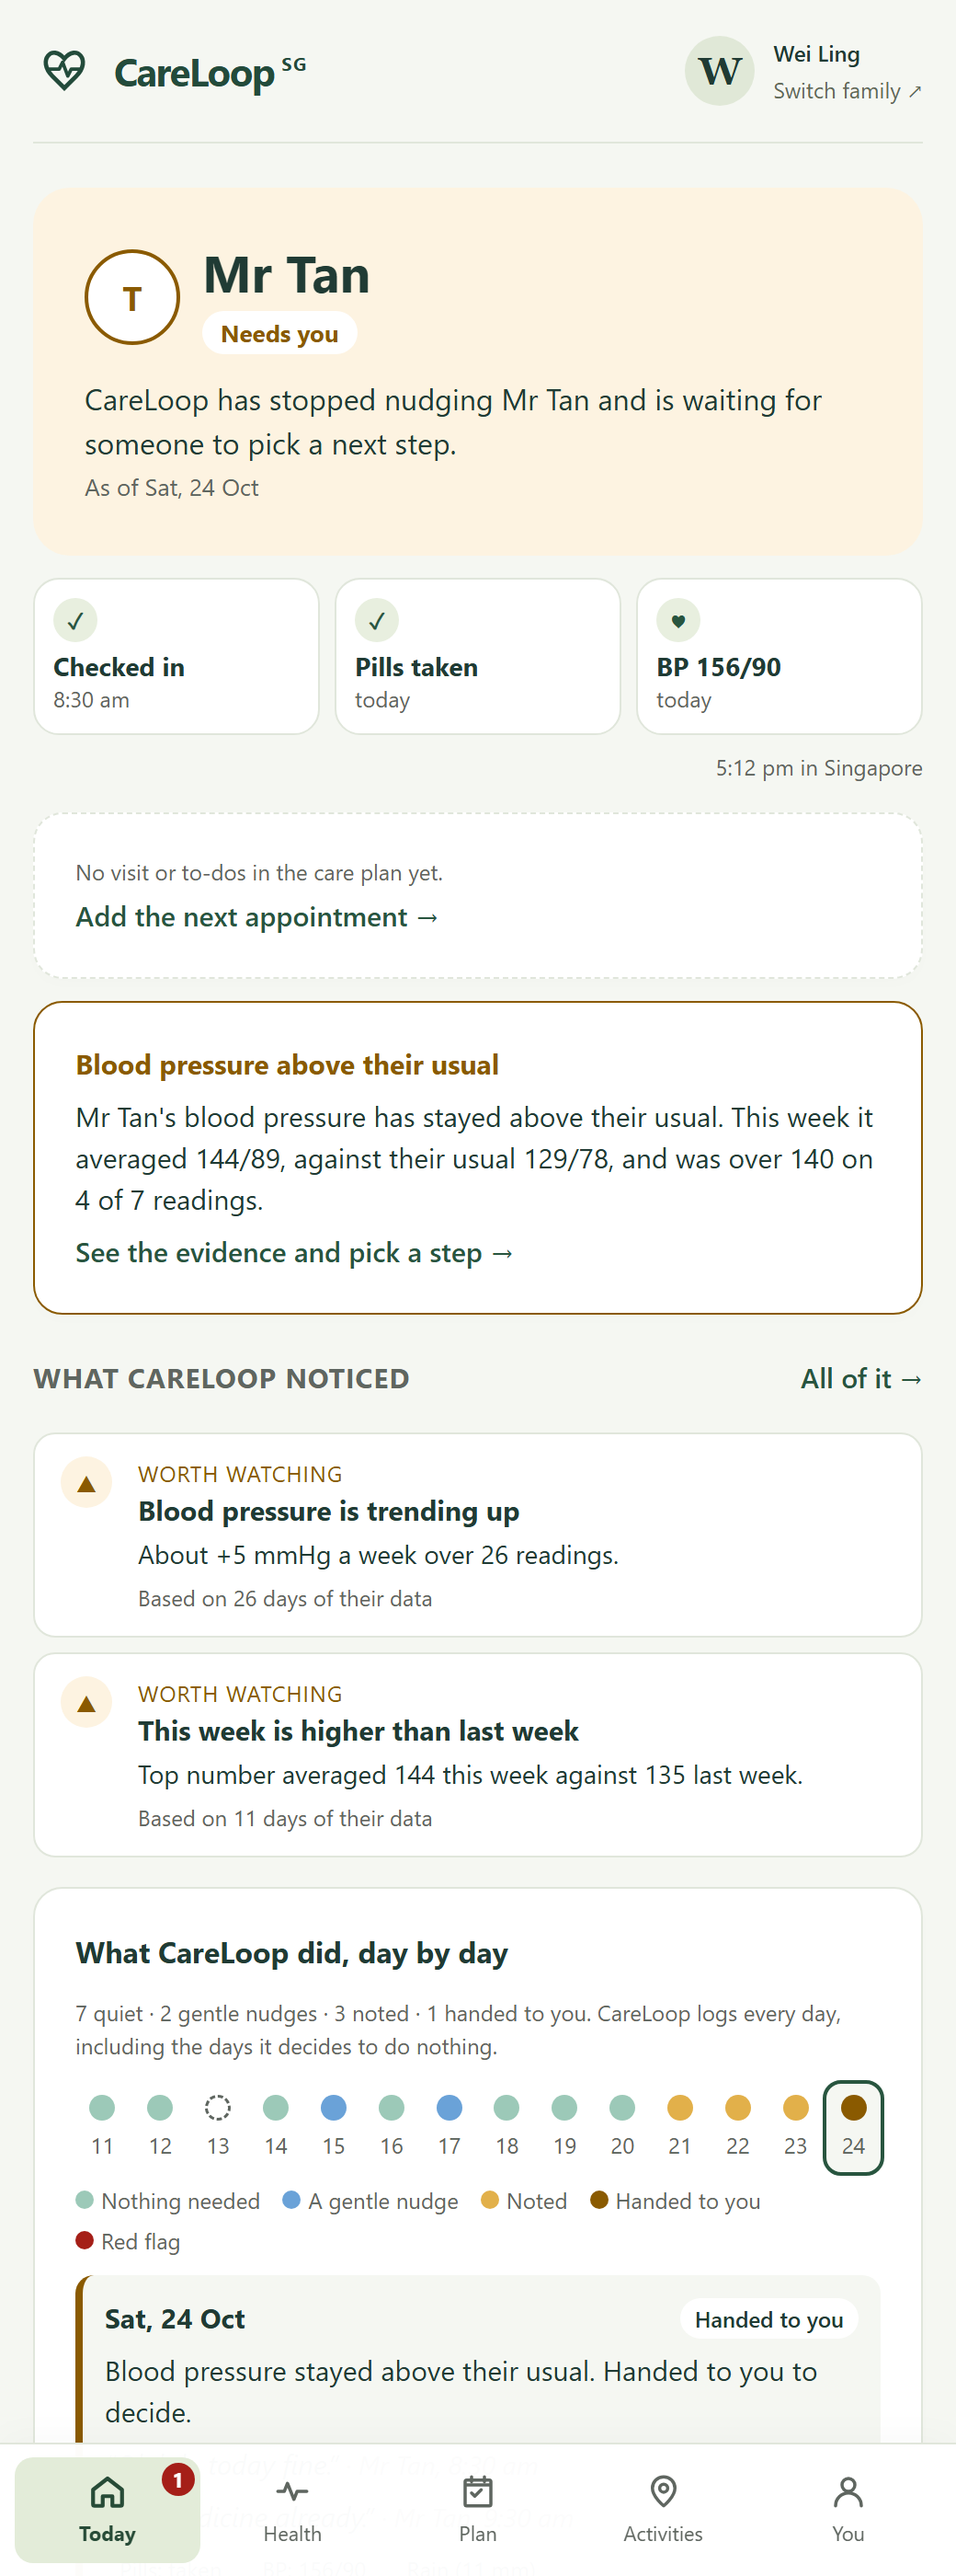
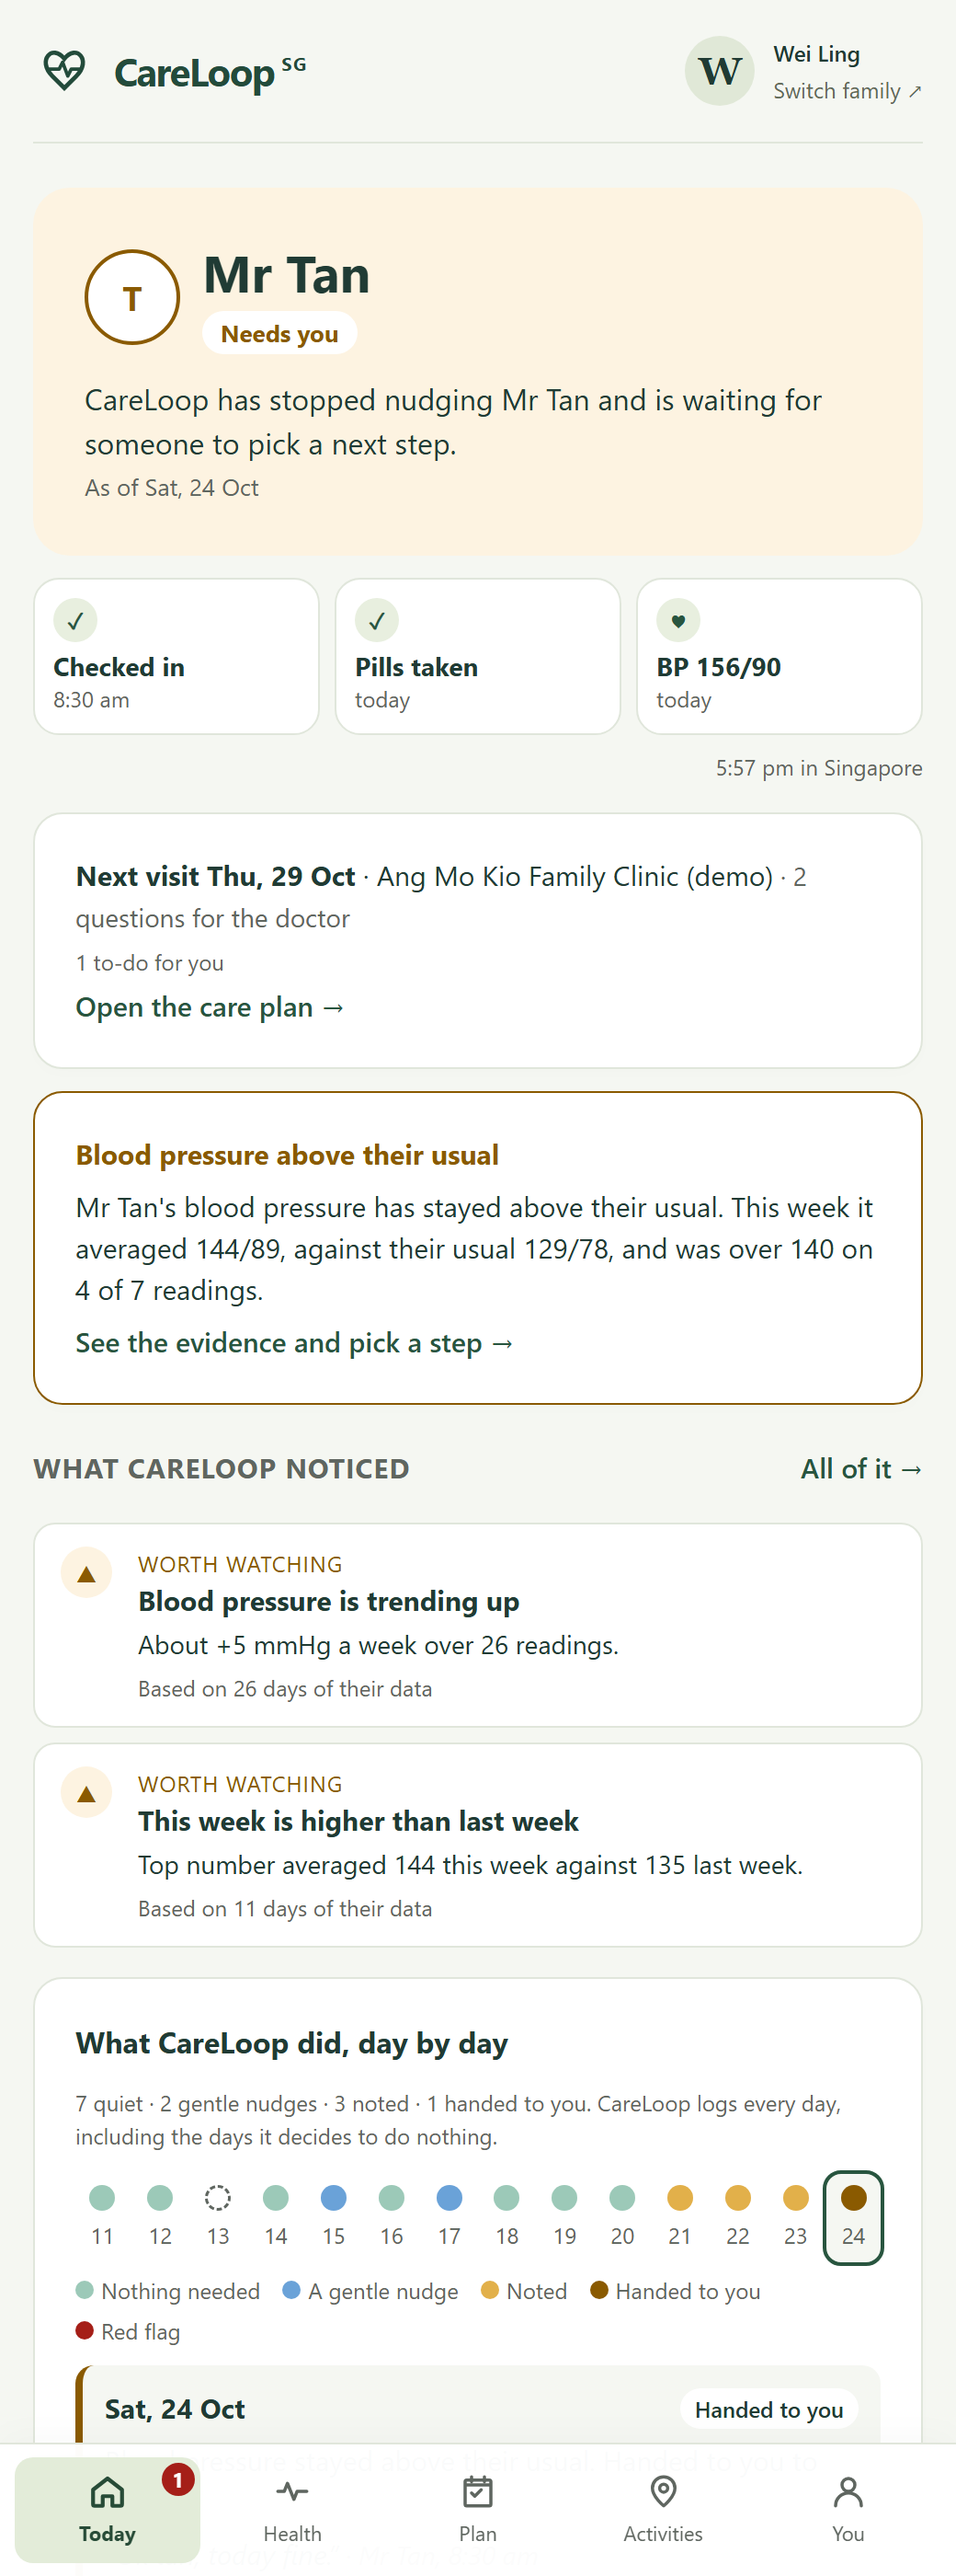
Steps keep the day's largest total, not the sum; demo care plan and timetable
A watch syncing through Apple Health or Health Connect sends the day's running
total several times, so adding them counted the day again. The demo now seeds
Mr Tan's care plan and the centre's timetable, so Plan and Programmes aren't
empty. README gets the Plan and Programmes screenshots and a note on watch data.

diff --git a/backend/api/demo.py b/backend/api/demo.py
@@ -14,6 +14,7 @@ from datetime import date, datetime, timedelta
 from backend.engine import run_day, trust_check
 from backend.engine.ladder import SGT
 from backend.env.data import envday, fetch_envday
+from backend.env.places import sample_programmes
 from backend.language import understand
 from backend.language.gateway import Chain
 
@@ -92,6 +93,45 @@ def seed(store, *, days: int = 40) -> None:
             run_day(store, sid, d, gateway=NO_MODEL)
         # Today's haze is real: the newest data.gov.sg fixture (PSI 115-165 on 13 Oct 2026).
         store.put("envday", fetch_envday(DEMO_TODAY, region))
+    _seed_plans(store)
+
+
+def _day(n: int) -> str:
+    return (DEMO_TODAY + timedelta(n)).isoformat()
+
+
+def _seed_plans(store) -> None:
+    """What a family and a centre would have typed in by the demo: Mr Tan's care plan and the centre's timetable.
+    Dates count from the demo start; the to-dos fall just after the video's fortnight (24 Oct).
+    The clinic, doctor, phone number and address are made up."""
+    store.put("carenotes", {
+        "id": "notes-tan", "senior_id": "tan", "updated_by": "Wei Ling", "updated_at": f"{_day(-3)}T20:15:00+08:00",
+        "appointments": [
+            {"id": "ap-1", "date": _day(-11), "time": "10:00", "place": "Ang Mo Kio Family Clinic (demo)", "purpose": "BP review",
+             "who_goes": "Wei Ling", "notes_after": "BP fine at the clinic. Same amlodipine dose. Keep measuring at home each morning."},
+            {"id": "ap-2", "date": _day(16), "time": "09:30", "place": "Ang Mo Kio Family Clinic (demo)", "purpose": "BP review and medicine refill",
+             "who_goes": "Kelvin", "notes_after": ""},
+        ],
+        "questions": [
+            {"id": "q-1", "text": "His morning readings are higher than at the clinic. Which ones should we trust?", "by": "Wei Ling",
+             "added": _day(-3), "asked": False, "answer": ""},
+            {"id": "q-2", "text": "Is it fine for him to take his pill after kopi instead of before breakfast?", "by": "Kelvin",
+             "added": _day(-2), "asked": False, "answer": ""},
+            {"id": "q-3", "text": "Should he keep using the old BP monitor?", "by": "Wei Ling", "added": _day(-12), "asked": True,
+             "answer": "Yes, but bring it to the next visit so the clinic can check it."},
+        ],
+        "tasks": [
+            {"id": "t-1", "title": "Collect amlodipine refill from the clinic", "due": _day(14), "owner": "Kelvin", "done": False, "done_by": None},
+            {"id": "t-2", "title": "Buy new AA batteries for the BP monitor", "due": _day(12), "owner": "Wei Ling", "done": False, "done_by": None},
+            {"id": "t-3", "title": "Put the emergency card on the fridge", "due": None, "owner": None, "done": True, "done_by": "Wei Ling"},
+        ],
+        "emergency": {"allergies": "Penicillin (rash)", "gp_name": "Dr Lim, Ang Mo Kio Family Clinic (demo)", "gp_phone": "6000 0000",
+                      "home_address": "Blk 999 Ang Mo Kio Ave 9, #05-123 (demo address)",
+                      "notes": "Lives alone on weekdays. Spare key with the neighbour at #05-125."},
+    })
+    # Mr Lee, Mr Goh and Mr Ng's centre has entered its timetable (the sample one), so it is no longer marked as a sample.
+    for p in sample_programmes("aac-105"):
+        store.put("programme", {**p, "sample": False})
 
 
 def _script(sid: str, n: int) -> dict:

diff --git a/backend/engine/tests/test_steps.py b/backend/engine/tests/test_steps.py
@@ -1,0 +1,28 @@
+"""Steps from a watch arrive as the day's total so far, several times a day. The day keeps the largest."""
+import unittest
+from datetime import timedelta
+
+from backend.engine import trust_check
+from backend.engine.history import build
+
+from .helpers import TODAY, World
+
+
+class StepsSyncTest(unittest.TestCase):
+    def test_repeated_syncs_are_not_added_up(self):
+        w = World()
+        d = TODAY
+        w.day(d, steps=None)
+        for i, (hhmm, count) in enumerate([("10:00", 1200), ("14:00", 3100), ("21:30", 4800)]):
+            r = {"id": f"watch{i}", "senior_id": w.sid, "time": f"{d}T{hhmm}:00+08:00", "kind": "steps",
+                 "values": {"count": count}, "source": "watch", "confidence": 1}
+            w.store.put("reading", {**r, "trust": trust_check(r)})
+        self.assertEqual(build(w.store, w.senior, d, days=2)[d].steps, 4800)
+
+    def test_one_reading_a_day_is_unchanged(self):
+        w = World()
+        self.assertEqual(build(w.store, w.senior, TODAY - timedelta(1), days=2)[TODAY - timedelta(1)].steps, 5000)
+
+
+if __name__ == "__main__":
+    unittest.main()

diff --git a/backend/api/tests/test_demo_plans.py b/backend/api/tests/test_demo_plans.py
@@ -1,0 +1,28 @@
+"""The demo has a care plan for Mr Tan and a timetable for the AAC-path seniors' centre, so the Plan tab and
+the centre's Programmes page aren't empty in the video."""
+import unittest
+
+from backend.api import demo
+from backend.api.store import Store
+
+
+class DemoPlansTest(unittest.TestCase):
+    @classmethod
+    def setUpClass(cls):
+        cls.store = Store(":memory:")
+        demo.seed(cls.store, days=20)
+
+    def test_mr_tan_has_a_care_plan(self):
+        notes = self.store.get("carenotes", "notes-tan")
+        self.assertTrue(any(a["date"] > demo.DEMO_TODAY.isoformat() for a in notes["appointments"]))
+        self.assertTrue(any(not q["asked"] for q in notes["questions"]))
+        self.assertIn("(demo", notes["emergency"]["gp_name"])
+
+    def test_centre_has_a_timetable(self):
+        progs = [p for p in self.store.list("programme") if p["place_id"] == "aac-105"]
+        self.assertGreater(len(progs), 0)
+        self.assertFalse(any(p["sample"] for p in progs))
+
+
+if __name__ == "__main__":
+    unittest.main()

diff --git a/backend/engine/history.py b/backend/engine/history.py
@@ -60,8 +60,10 @@ def build(store, senior: dict, upto: date, days: int = 60) -> dict[date, Day]:
             else:
                 d.bp_flagged.append(r)
         elif r["kind"] == "steps":
+            # A steps reading is the day's total so far: a watch syncs it through Apple Health or Health Connect
+            # several times a day. Keep the largest, never the sum, or each sync would count the day again.
             if trust["ok"]:
-                d.steps = (d.steps or 0) + int(v["count"])
+                d.steps = max(d.steps or 0, int(v["count"]))
         elif not trust["ok"]:
             d.other_flagged.append(r)
 

diff --git a/backend/api/tests/test_care_notes.py b/backend/api/tests/test_care_notes.py
@@ -25,7 +25,8 @@ class CareNotes(unittest.TestCase):
         self.c = TestClient(api.app)
 
     def test_empty_until_written(self):
-        d = self.c.get("/senior/tan/care-notes?contact=tan-weiling").json()
+        # Mdm Wong's family hasn't written anything in the demo (Mr Tan's plan is seeded).
+        d = self.c.get("/senior/wong/care-notes?contact=wong-mei").json()
         self.assertEqual(d["tasks"], [])
         self.assertIsNone(d["updated_by"])
 

diff --git a/README.md b/README.md
@@ -24,6 +24,8 @@ The family app and the centre console also print a one-page **GP brief** (PDF) f
 
 Screenshots are from the synthetic demo after its fortnight (`POST /demo/advance {"days": 11}`). Mr Tan and Mr Ng are not real people.
 
+**Steps** can come from a watch: `POST /reading` with `source: "watch"` takes the day's step total, heart rate and sleep, as Apple Health or Health Connect give them (a Fitbit syncs to both). A phone app to read them and send them in isn't built yet; in the demo, steps are synthetic. Blood pressure comes from the home cuff, said or typed into the check-in.
+
 ### Home page
 
 <img src="docs/screenshots/home.png" alt="CareLoop home page with three doors" width="800">
@@ -41,6 +43,11 @@ A short daily check-in. Mr Tan can talk or type; CareLoop pulls out the reading 
 | <img src="docs/screenshots/family-today.png" alt="Family app Today tab" width="260"> | <img src="docs/screenshots/family-health.png" alt="Family app Health tab" width="260"> | <img src="docs/screenshots/family-handover.png" alt="Handover with evidence" width="260"> |
 | Status, today's check-in, what CareLoop noticed, and every day's decision, quiet days included | 14 or 30 days of blood pressure against their usual, the medicine calendar and steps | Why CareLoop handed over, what it already tried, and the options. Nothing happens until someone picks one |
 
+| Plan |
+|---|
+| <img src="docs/screenshots/family-plan.png" alt="Family app Plan tab" width="260"> |
+| Shared by the whole family: appointments, questions for the doctor (printed on the GP brief), to-dos with owners, medicines and the emergency card |
+
 ### CareLoop for Centres
 
 The caseload, sorted by who needs a look. At most one non-urgent alert per senior a week.
@@ -50,6 +57,10 @@ The caseload, sorted by who needs a look. At most one non-urgent alert per senio
 One senior: the day-by-day log, patterns in their own data, a befriending record ready to paste, and the care plan.
 
 <img src="docs/screenshots/centre-senior.png" alt="Centre view of one senior" width="800">
+
+Programmes: the centre types in its timetable once; CareLoop shows which seniors each programme suits and suggests them.
+
+<img src="docs/screenshots/centre-programmes.png" alt="Centre weekly programmes" width="800">
 
 ## Layout
 

diff --git a/docs/build-log.md b/docs/build-log.md
@@ -2,6 +2,13 @@
 
 What has been built, the decisions behind it, and what is still open. Newest first. Add to it when you finish a piece of work; keep each entry short.
 
+## 14 Oct 2026: watch steps, demo plans, README screenshots
+
+- **Steps fix (engine, Vibu's file, changed at Nathan's request):** `backend/engine/history.py` added up every steps reading in a day. A watch syncing through Apple Health or Health Connect sends the day's running total several times, so each sync counted the day again (tested live: 1,064 + 900 became 1,964). A day now keeps the largest total. The synthetic personas send one steps reading a day, so tuning and held-out results don't change; any re-run is still not blind. Test: `backend/engine/tests/test_steps.py`.
+- **Wearables, as they stand:** `POST /reading` takes `source: "watch"` for steps, heart rate and sleep, and they pass the trust check. Heart rate and sleep are stored but nothing reads them yet. Nothing on a phone reads Fitbit data from Apple Health or Health Connect: a web app can't, only an installed app can. Fitbit doesn't measure blood pressure; that still comes from the home cuff.
+- **Demo plans:** the seed now writes Mr Tan's care plan (a past and a next GP visit, questions for the doctor, to-dos, emergency card; clinic, doctor, phone and address made up) and the timetable for the AAC-path seniors' centre, so the Plan tab and the Programmes page aren't empty. Test: `backend/api/tests/test_demo_plans.py`.
+- **README:** the five interfaces, with screenshots from the demo in `docs/screenshots/`.
+
 ## 14 Oct 2026: app design and interaction fixes
 
 - Added a shared home page at `/`, with separate senior, family and centre entry points and clearly labelled synthetic demos.
@@ -55,6 +62,7 @@ What has been built, the decisions behind it, and what is still open. Newest fir
    - Tencent Cloud ASR (`transcribe()`).
    - Postgres.
    - Hold-to-talk over HTTPS on a phone (the Web Speech API needs HTTPS or localhost).
+   - Fitbit data from a real phone: no app reads Apple Health or Health Connect yet (see 14 Oct, watch steps).
 6. **Still to collect:** the real family story for the video opening (with consent), and optionally a quote from an AAC worker.
 
 ## Decisions
